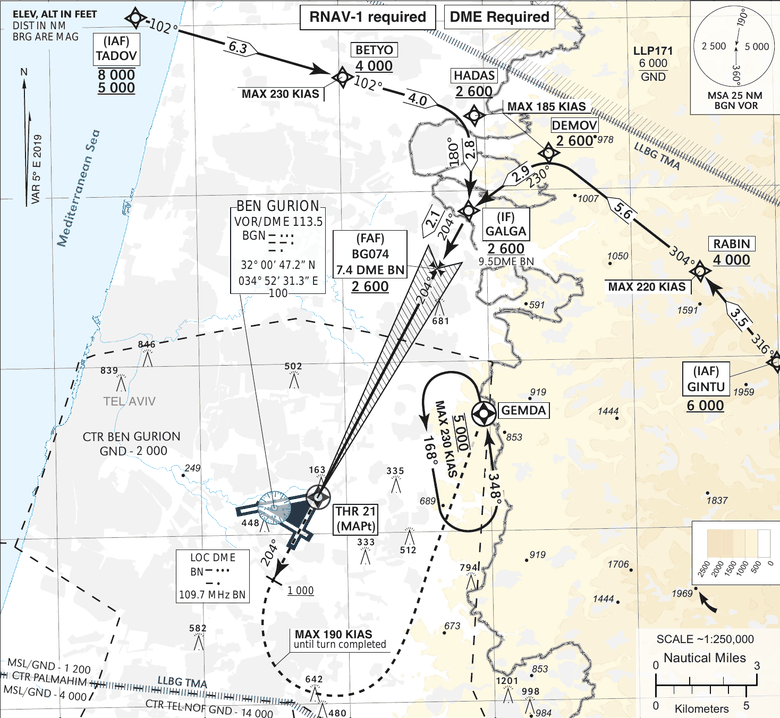
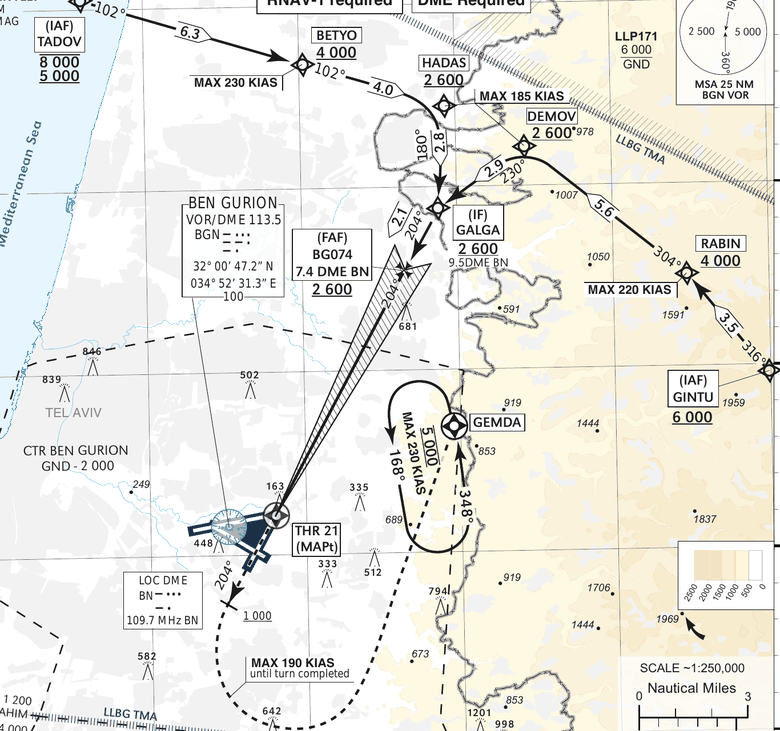
Place the instrument charts by their graticule, not by their border
Reported: LLIB looks off. It was -- about half a mile east, measured against
the sheet's own printed ROP position versus where it draws the compass rose.
Not a scale error: conformality on all 23 sheets sits between 0.98 and 1.005,
so the pictures are the right size. The origin was wrong.

The bounds came from a detected neat line, and a few pixels of error in
finding a printed border move the whole sheet on the map while leaving every
residual small -- a fit that reads as healthy and is not. The crop is now cut
at the outermost labelled gridlines, so the same fit decides both where the
cut falls and what coordinate it carries: an error in the fit moves neither.
The printed border is kept as the sanity check it is good for -- a graticule
box wildly unlike it is refused.

LLIB's approach chart now lands within about 0.16 nm of its own printed
reference, from 0.42. LLBG's ILS 21, which the old path refused outright,
places cleanly, so the picker offers 23 sheets rather than 22.

Also: the builder reads "יציאה לנתיבי ATS" now, so LLHZ's departure sheet is
found by the rule rather than carried by hand, and every designation is
tidied to what a pilot calls it (ILS 08, not APPROACH ILS 08).

Claude-Session: https://claude.ai/code/session_01RGtdRFvu5vUG3jdQkbaVMg

diff --git a/tests/ifr-chart-overlay.spec.js b/tests/ifr-chart-overlay.spec.js
@@ -75,8 +75,8 @@ test('the picker lists every placeable sheet and switches which one is drawn', a
   const sel = page.locator('#ifr-sheet');
   const values = await page.evaluate(() =>
     Array.from(document.getElementById('ifr-sheet').options).map(o => o.value));
-  expect(values.length).toBe(22);                // 19 at LLBG, 2 at LLIB, 1 at LLHZ
-  expect(values.filter(v => v.startsWith('LLBG|')).length).toBe(19);
+  expect(values.length).toBe(23);                // 20 at LLBG, 2 at LLIB, 1 at LLHZ
+  expect(values.filter(v => v.startsWith('LLBG|')).length).toBe(20);
 
   // Ask for a different sheet: that one is drawn and the one before it is gone. Reported as
   // "selecting different ifr chart doesn't remove selected" -- the picker names one chart,

diff --git a/scripts/georef-plate.py b/scripts/georef-plate.py
@@ -242,19 +242,51 @@ def georef(pdf, png, arp):
     at = lambda m, b, px: m*(px/scale) + b
     LAT = lambda px: at(mlat, blat, px)
     LON = lambda px: at(mlon, blon, px)
-    north_up = (lat_key == 'cy')
-    if north_up:
-        box = {'sw': [round(LAT(bottom),5), round(LON(left),5)],
-               'ne': [round(LAT(top),5),    round(LON(right),5)]}
-        corners = {'tl': (LAT(top), LON(left)), 'tr': (LAT(top), LON(right)),
-                   'bl': (LAT(bottom), LON(left))}
+    # A graticule slightly out of square with the page needs both pixel axes to describe it
+    # (see plane()). Adopted only when it beats the single-axis fit on the labels it was
+    # given: on a plate that IS square the second coefficient is noise, and the residual says
+    # so. The corners then come from the plane, evaluated at the frame.
+    # Crop to the GRATICULE, not to the neat line. The frame is found by looking for the
+    # printed border, and a few pixels of error there move the whole sheet on the map while
+    # leaving every residual small -- which is how LLIB's approach charts came to sit half a
+    # mile east with a fit that read as healthy. Cutting at the outermost labelled gridlines
+    # instead makes the placement independent of that: the same fit decides both where the
+    # cut is and what coordinate it carries, so an error in the fit moves neither.
+    PXLAT = lambda deg: (deg - blat) / mlat * scale          # inverse of LAT()
+    PXLON = lambda deg: (deg - blon) / mlon * scale
+    lat_lo, lat_hi = min(l['deg'] for l in lat), max(l['deg'] for l in lat)
+    lon_lo, lon_hi = min(l['deg'] for l in lon), max(l['deg'] for l in lon)
+    if north_up_guess := (lat_key == 'cy'):
+        gtop, gbottom = PXLAT(lat_hi), PXLAT(lat_lo)
+        gleft, gright = PXLON(lon_lo), PXLON(lon_hi)
     else:
-        # Rotated print: latitude runs across the page, longitude up it.
-        box = {'tl': [round(LAT(left),5),  round(LON(top),5)],
-               'tr': [round(LAT(right),5), round(LON(top),5)],
-               'bl': [round(LAT(left),5),  round(LON(bottom),5)]}
-        corners = {'tl': (LAT(left), LON(top)), 'tr': (LAT(right), LON(top)),
-                   'bl': (LAT(left), LON(bottom))}
+        gleft, gright = PXLAT(lat_lo), PXLAT(lat_hi)
+        gtop, gbottom = PXLON(lon_hi), PXLON(lon_lo)
+    if gleft > gright: gleft, gright = gright, gleft
+    if gtop > gbottom: gtop, gbottom = gbottom, gtop
+    # Only when it lands inside the page and covers most of the frame the border search
+    # found: a graticule box wildly different from it means one of the two is wrong, and the
+    # printed border is the one that was measured rather than inferred.
+    W_px, H_px = im.size
+    if (0 <= gleft < gright <= W_px and 0 <= gtop < gbottom <= H_px and
+            (gright-gleft) > 0.4*(right-left) and (gbottom-gtop) > 0.4*(bottom-top)):
+        left, right, top, bottom = gleft, gright, gtop, gbottom
+    LATxy = lambda px, py: LAT(py if lat_key == 'cy' else px)
+    LONxy = lambda px, py: LON(px if lat_key == 'cy' else py)
+    north_up = (lat_key == 'cy')
+    tl = (LATxy(left, top), LONxy(left, top))
+    tr = (LATxy(right, top), LONxy(right, top))
+    bl = (LATxy(left, bottom), LONxy(left, bottom))
+    corners = {'tl': tl, 'tr': tr, 'bl': bl}
+    # A plate whose graticule is square to the page still ships as a plain box: three corners
+    # would be the same rectangle written the long way, and every consumer handles both.
+    square = (abs(tl[0]-tr[0]) < 1e-6 and abs(tl[1]-bl[1]) < 1e-6) if north_up else False
+    if north_up and square:
+        box = {'sw': [round(bl[0],5), round(tl[1],5)], 'ne': [round(tl[0],5), round(tr[1],5)]}
+    else:
+        box = {'tl': [round(tl[0],5), round(tl[1],5)],
+               'tr': [round(tr[0],5), round(tr[1],5)],
+               'bl': [round(bl[0],5), round(bl[1],5)]}
     # Conformality: a degree of longitude is cos(lat) as wide on the ground as a degree of
     # latitude, so a correct fit has this at 1.00. A stretch or a misread axis does not.
     span_lat = abs(corners['tl'][0] - corners['bl'][0]) if north_up else abs(corners['tr'][0]-corners['tl'][0])

diff --git a/scripts/build-ifr-overlays.py b/scripts/build-ifr-overlays.py
@@ -26,7 +26,10 @@ TITLES = 'docs/data/plate-titles.json'
 FIELDS = 'docs/data/airfields.json'
 # What counts as an IFR sheet, in either language. VOR alone is not enough -- a field's
 # "VOR ref" annexes are not procedures -- so it must appear with גישה (approach).
-IFR = re.compile(r'ILS|SID|STAR|RNP|LOC\b|INSTRUMENT|\bIAC\b|APPROACH|תהליך גישה|מכשירים', re.I)
+IFR = re.compile(r'ILS|SID|STAR|RNP|LOC\b|INSTRUMENT|\bIAC\b|APPROACH|תהליך גישה|מכשירים|'
+                 # LLHZ files its departure to the ATS routes as an annex, in Hebrew: a
+                 # pattern that reads only the English words misses it entirely.
+                 r'יציאה לנתיבי ATS', re.I)
 
 
 def sheets():
@@ -56,6 +59,20 @@ def code_for(icao, plate, title):
     return stem[:40]
 
 
+
+# What a pilot calls the sheet. The file name and the CAA's own title both say it, in
+# different words; this settles on one form so the picker reads as a list of procedures.
+def tidy(code, title):
+    c = re.sub(r'^APPROACH\s+', '', code).strip()
+    if re.match(r'^STANDARD INSTRUMENT DEPARTURE', c, re.I):
+        rwys = re.findall(r'\d{2}', title)
+        return 'SID ' + '/'.join(rwys[:2]) if rwys else 'SID'
+    if 'תהליך גישה' in c:
+        return 'VOR approach'
+    if 'יציאה לנתיבי ATS' in c:
+        return 'ATS departure'
+    return c
+
 def main(argv):
     only = set(a.upper() for a in argv)
     placed, skipped = {}, []
@@ -76,7 +93,7 @@ def main(argv):
             why = fit.get('error') or (run.stderr.strip().split('\n')[-1] if run.stderr else 'refused')
             skipped.append((icao, plate, why[:70]))
             continue
-        row = {'png': name + '.png', 'code': code, 'title': title}
+        row = {'png': name + '.png', 'code': tidy(code, title), 'title': title}
         for key in ('sw', 'ne', 'tl', 'tr', 'bl'):
             if key in fit:
                 row[key] = fit[key]
